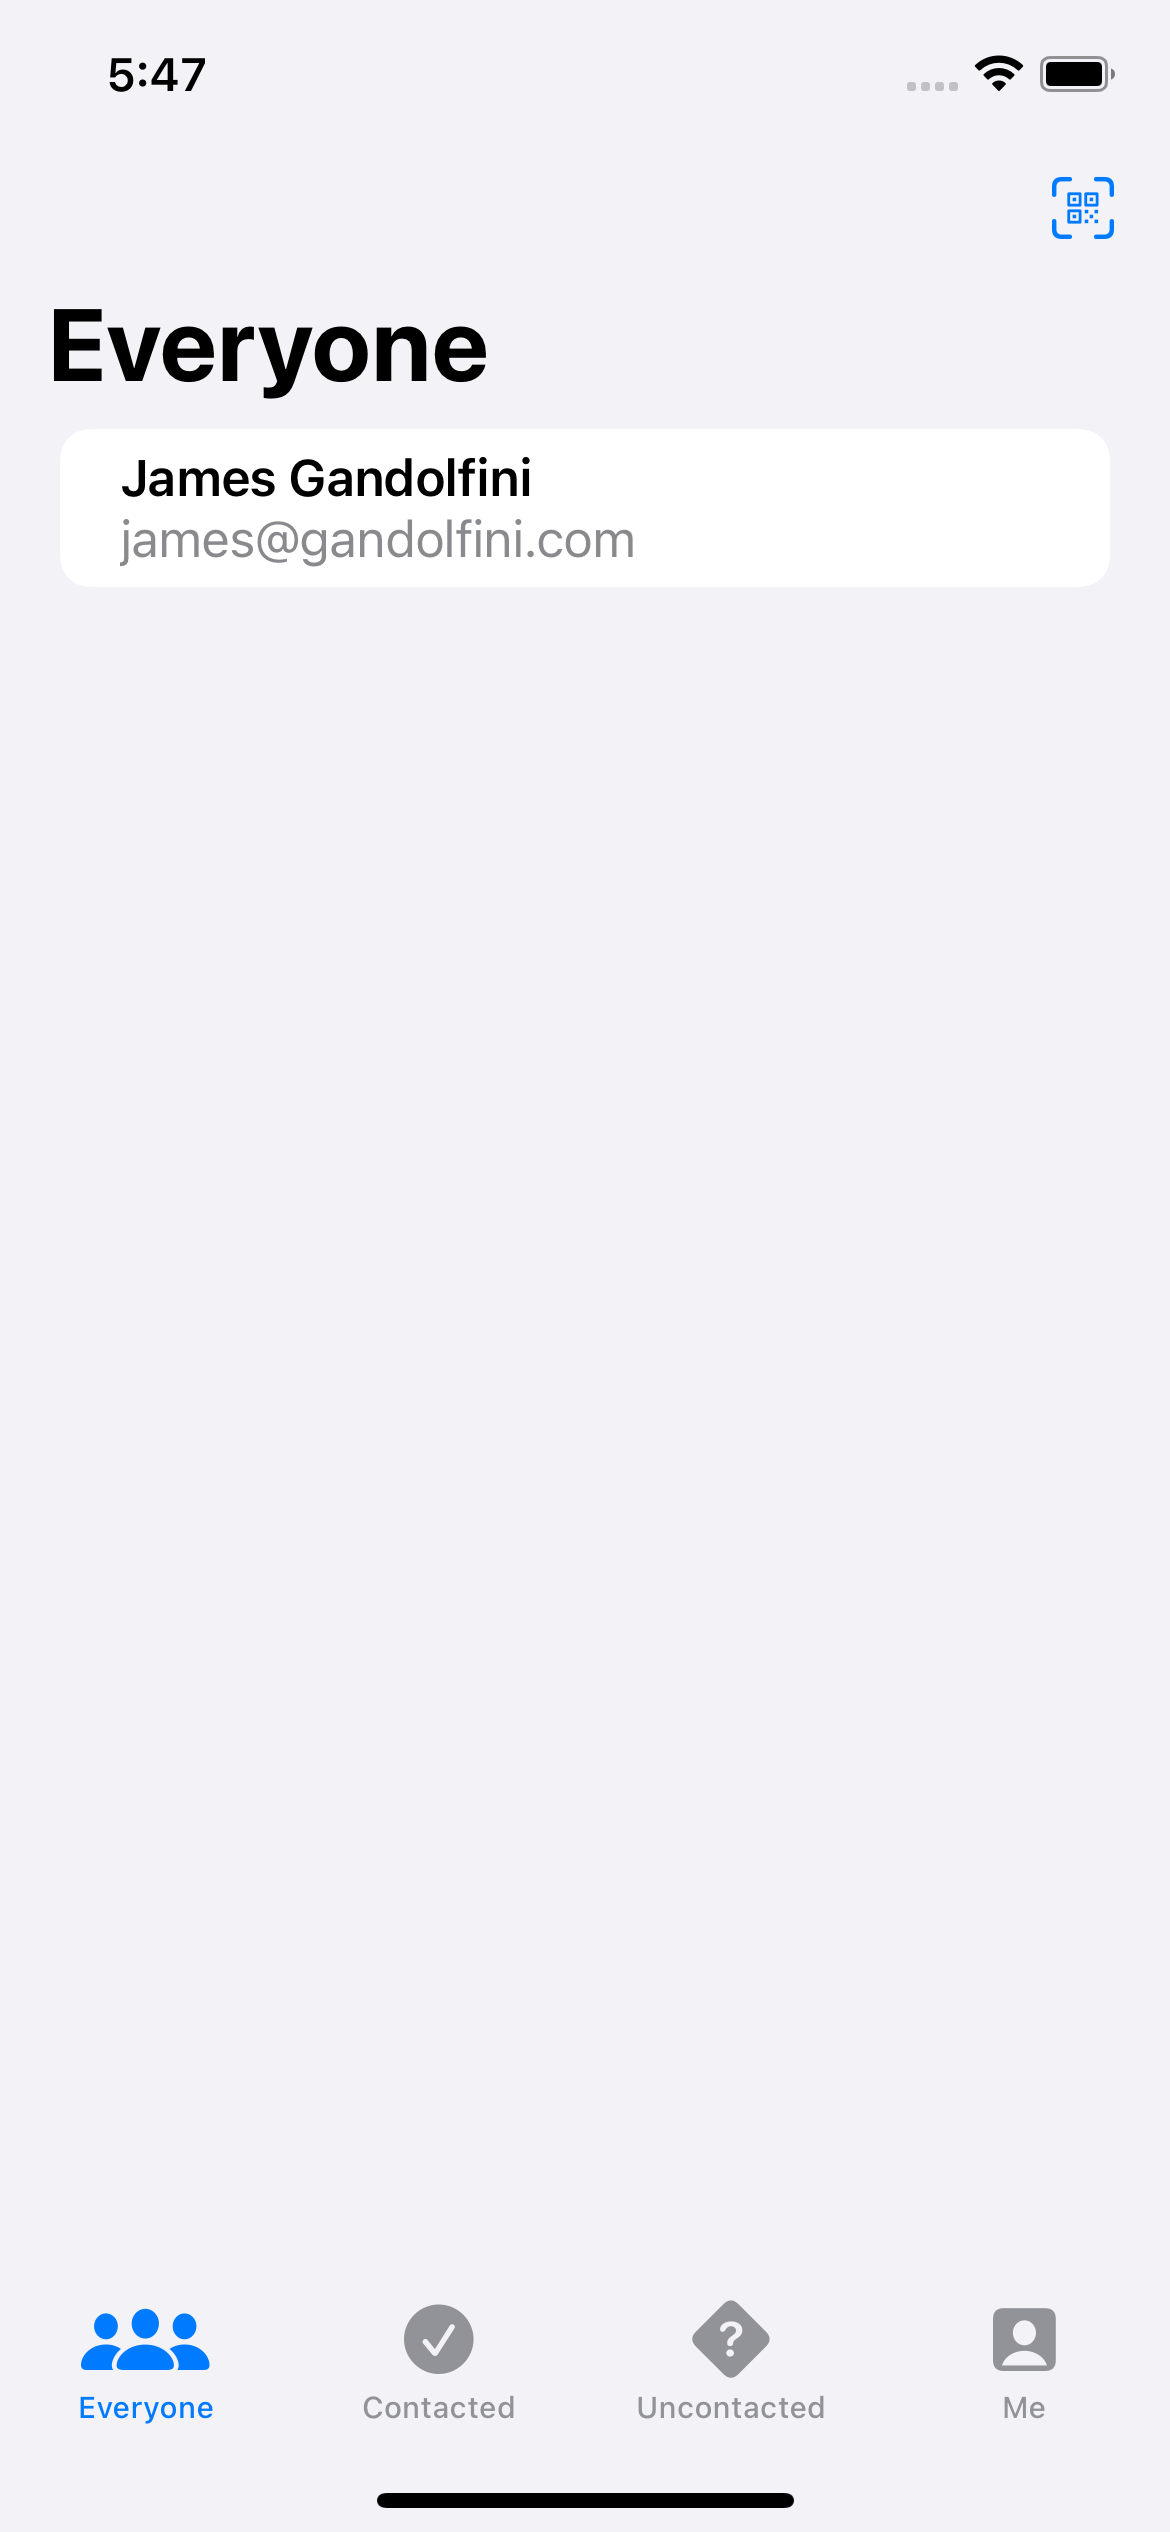
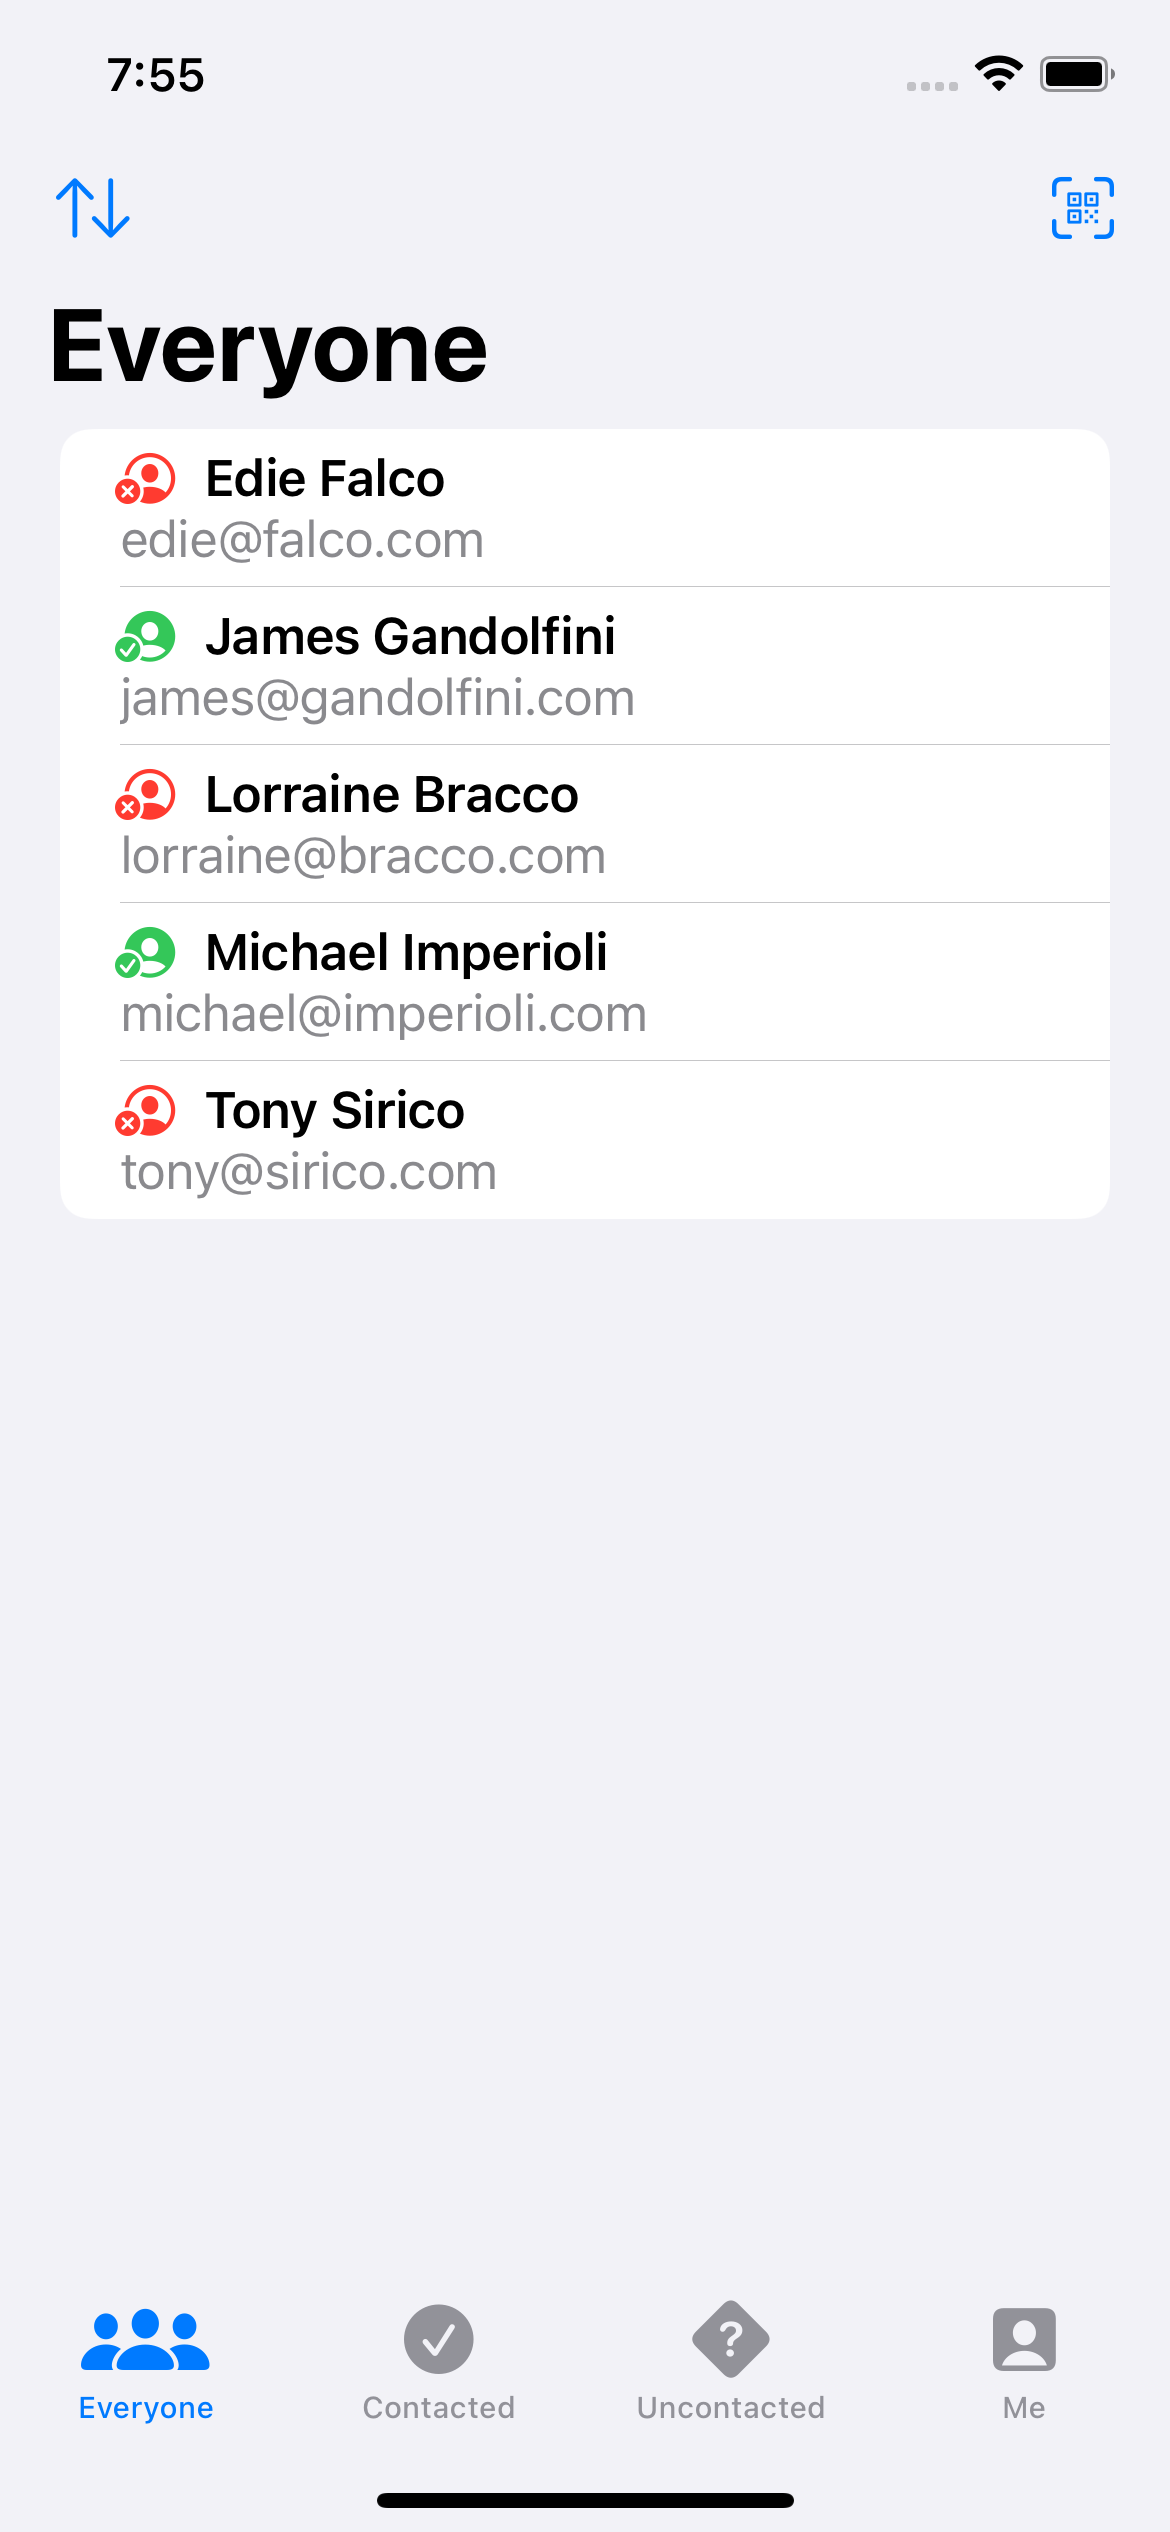
add sorting, contacted prospects and documents dir

Changed region(s): [[0.0923, 0.156, 0.5538, 0.468], [0.0923, 0.0, 0.1538, 0.0312], [0.0615, 0.0624, 0.1231, 0.0936]]

diff --git a/28-hot-prospects/HotProspects/HotProspects/ProspectsView.swift b/28-hot-prospects/HotProspects/HotProspects/ProspectsView.swift
@@ -15,10 +15,27 @@ import UserNotifications
 struct ProspectsView: View {
     @EnvironmentObject var prospects: Prospects
     @State private var isShowingScanner = false
+    @State private var isShowingSettings = false
     
     enum FilterType {
         case none, contacted, uncontacted
     }
+    enum SortType {
+        case none, name, date
+    }
+    
+    @State private var sort = SortType.none
+    var sortedProspects: [Prospect] {
+        switch sort {
+        case .none:
+            return filteredProspects
+        case .name:
+            return filteredProspects.sorted()
+        case .date:
+            return filteredProspects.sorted(by: { $0.date > $1.date})
+                }
+    }
+    
     let filter: FilterType
     var title: String {
         switch filter {
@@ -44,12 +61,16 @@ struct ProspectsView: View {
     var body: some View {
         NavigationView {
             List {
-                ForEach(filteredProspects) { prospect in
-                    VStack(alignment: .leading) {
-                        Text(prospect.name)
-                            .font(.headline)
-                        Text(prospect.emailAddress)
-                            .foregroundColor(.secondary)
+                ForEach(sortedProspects) { prospect in
+                        VStack(alignment: .leading) {
+                            HStack {
+                                Image(systemName: prospect.isContacted ? "person.crop.circle.fill.badge.checkmark" : "person.crop.circle.badge.xmark")
+                                    .foregroundColor(prospect.isContacted ? .green : .red)
+                                Text(prospect.name)
+                                    .font(.headline)
+                            }
+                            Text(prospect.emailAddress)
+                                .foregroundColor(.secondary)
                     }
                     .swipeActions {
                         if prospect.isContacted {
@@ -78,18 +99,35 @@ struct ProspectsView: View {
             }
                 .navigationTitle(title)
                 .toolbar {
-                    Button {
-//                        let prospect = Prospect()
-//                        prospect.name = "James Gandolfini"
-//                        prospect.emailAddress = "james@gandolfini.com"
-//                        prospects.people.append(prospect)
-                        isShowingScanner = true
-                    } label: {
-                        Label("Scan", systemImage: "qrcode.viewfinder")
-                    }
+                    ToolbarItem(placement: .navigationBarLeading) {
+                        Button {
+                            isShowingSettings = true
+                        } label: {
+                            Label("Sort", systemImage: "arrow.up.arrow.down")
+                        }
+                                        }
+                    ToolbarItem(placement: .navigationBarTrailing) {
+                        Button {
+    //                        let prospect = Prospect()
+    //                        prospect.name = "James Gandolfini"
+    //                        prospect.emailAddress = "james@gandolfini.com"
+    //                        prospects.people.append(prospect)
+                            isShowingScanner = true
+                        } label: {
+                            Label("Scan", systemImage: "qrcode.viewfinder")
+                        }
+                                        }
+                    
+                    
                 }
+                .confirmationDialog("Sort", isPresented: $isShowingSettings) {
+                                Button("None") { sort = .none }
+                                Button("Sort by name") { sort = .name }
+                                Button("Sort by most recent") { sort = .date }
+                                Button("Cancel", role: .cancel) { }
+                            }
                 .sheet(isPresented: $isShowingScanner) {
-                    CodeScannerView(codeTypes: [.qr], simulatedData: "James Gandolfini\njames@gandolfini.com", completion: handleScan)
+                    CodeScannerView(codeTypes: [.qr], simulatedData: "Lorraine Bracco\nlorraine@bracco.com", completion: handleScan)
                 }
         }
     }

diff --git a/28-hot-prospects/HotProspects/HotProspects/Prospect.swift b/28-hot-prospects/HotProspects/HotProspects/Prospect.swift
@@ -10,19 +10,30 @@
 
 import SwiftUI
 
-class Prospect: Identifiable, Codable {
+class Prospect: Identifiable, Codable, Comparable {
     var id = UUID()
     var name = "Anonymous"
     var emailAddress = ""
+    var date = Date.now
     fileprivate(set) var isContacted = false
+    
+    static func <(lhs: Prospect, rhs: Prospect) -> Bool {
+            lhs.name < rhs.name
+        }
+    
+    static func ==(lhs: Prospect, rhs: Prospect) -> Bool {
+            lhs.id == rhs.id
+        }
 }
 
 @MainActor class Prospects: ObservableObject {
     @Published private(set) var people: [Prospect]
     let saveKey = "SavedData"
+    let savePath = FileManager.documentsDirectory.appendingPathComponent("SavedData")
     
     init() {
-        if let data = UserDefaults.standard.data(forKey: saveKey) {
+        //if let data = UserDefaults.standard.data(forKey: saveKey) {
+        if let data = try? Data(contentsOf: savePath) {
             if let decoded = try? JSONDecoder().decode([Prospect].self, from: data) {
                 people = decoded
                 return
@@ -33,7 +44,8 @@ class Prospect: Identifiable, Codable {
     
     private func save() {
         if let encoded = try? JSONEncoder().encode(people) {
-            UserDefaults.standard.set(encoded, forKey: saveKey)
+            // UserDefaults.standard.set(encoded, forKey: saveKey)
+            try? encoded.write(to: savePath, options: [.atomic, .completeFileProtection])
         }
     }
     
@@ -46,5 +58,12 @@ class Prospect: Identifiable, Codable {
         objectWillChange.send()
         prospect.isContacted.toggle()
         save()
+    }
+}
+
+extension FileManager {
+    static var documentsDirectory: URL {
+        let paths = FileManager.default.urls(for: .documentDirectory, in: .userDomainMask)
+        return paths[0]
     }
 }

diff --git a/28-hot-prospects/README.md b/28-hot-prospects/README.md
@@ -26,5 +26,8 @@ An app to track potential customers, using QR codes.
 - saving and loading data with UserDefaults.
 - adding a context menu to an image.
 - posting notifications to the lock screen.
+- showing whether a prospect was contacted or not.
+- saving and loading data from the documents directory.
+- sorting contacts by name or by most recent.
 
 Based on [100 Days of SwiftUI](https://www.hackingwithswift.com/100/swiftui) by Paul Hudson - Hacking with Swift (2022).
